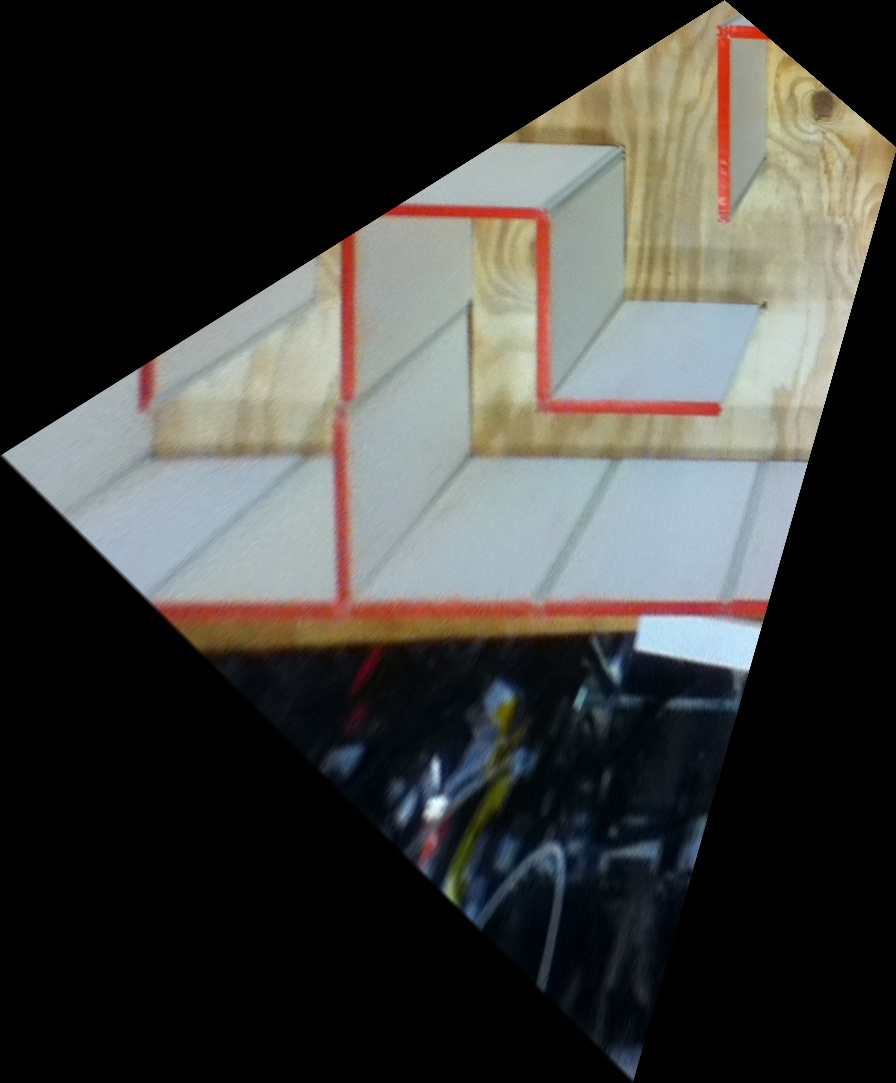
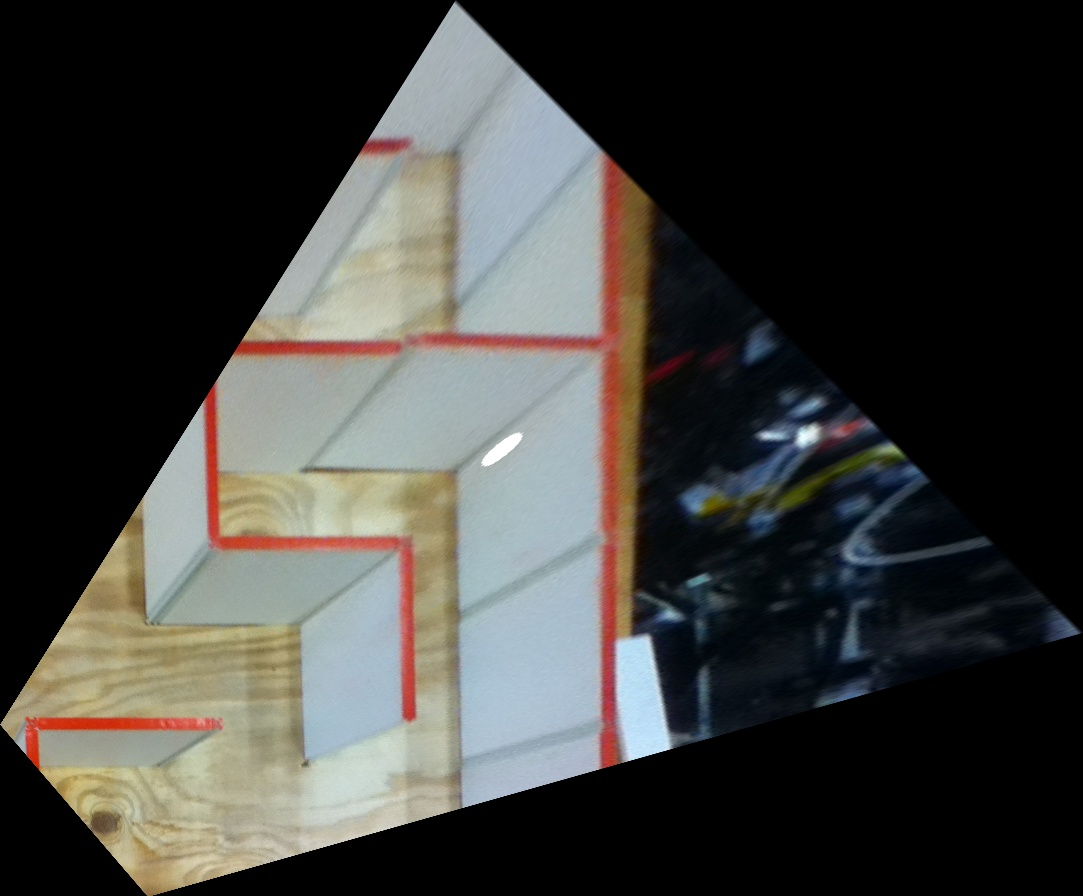
Got the homography working

diff --git a/src/transformer.py b/src/transformer.py
@@ -1,7 +1,6 @@
 import cv2
 import numpy as np
 import matplotlib.pyplot as plt
-from hough import *  # Might not need to import this directly here
 from get_square import *
 
 if __name__ == "__main__":
@@ -10,25 +9,21 @@ if __name__ == "__main__":
     cv_or_mpl = 'mpl'    # Use openCV or matplotlib to render the results?
 
     for image_number in range(89, 96):
+
         # Load the test image
         path = '../data/m7/IMG_02' + str(image_number) + '.JPG'
         # path = '../data/m7/IMG_0291.JPG'
         img = cv2.imread(path, cv2.CV_LOAD_IMAGE_COLOR)
 
-        corners = get_square(img) # This should be an image
-        print 'here'
-        exit(0)
-        print corners
+        # Do a clockwise sort on the points
+        def cw_sort(points):
+            center = (np.mean([z[0] for z in points]), np.mean([z[1] for z in points]))
+            cv2.circle(img, (int(center[0]), int(center[1])), 10, (255, 255, 255), -1)
+            xy_and_theta = [(p,np.arctan2(p[1]-center[1], p[0]-center[0])) for p in points]
+            return [z[0] for z in sorted(xy_and_theta, key = lambda x: x[1])]
 
-        corners = sorted(corners)
-        print corners
-
-        '''
-        Note: the corner order is top left, bottom left, top right, bottom right
-        '''
-        # Define some colors to use when we draw vertices
-        blue = (255, 0, 0)
-        green = (0, 255, 0)
+        # Clockwise sort the corners
+        corners = cw_sort(get_square(img))
 
         ortho_side = 2500    # Side length of square rectified image 
         ortho_dim = tuple([ortho_side]*2)  # Get explicit dimensions as tuple
@@ -36,13 +31,14 @@ if __name__ == "__main__":
 
         # Construct the pixel locations of the square in the middle of the
         # transformed image
-        central_square = [(ortho_side/2 - sq_side/2, ortho_side/2 - sq_side/2), 
-                          (ortho_side/2 - sq_side/2, ortho_side/2 + sq_side/2),
-                          (ortho_side/2 + sq_side/2, ortho_side/2 - sq_side/2), 
-                          (ortho_side/2 + sq_side/2, ortho_side/2 + sq_side/2)]
+        central_square = [
+                          (ortho_side/2 - sq_side/2, ortho_side/2 - sq_side/2),
+                          (ortho_side/2 + sq_side/2, ortho_side/2 - sq_side/2),
+                          (ortho_side/2 + sq_side/2, ortho_side/2 + sq_side/2),
+                          (ortho_side/2 - sq_side/2, ortho_side/2 + sq_side/2)
+                         ]
 
-        # Numpy-ize the lists of corner locations to use them in the homography 
-        # function
+        # Numpy-ize the lists of corner locations to use them in the homography function
         src = np.array(corners, np.float32)
         dst = np.array(central_square, np.float32)
 
@@ -63,6 +59,11 @@ if __name__ == "__main__":
 
         # Draw everything
         if draw:
+
+            # Define some colors to use when we draw vertices
+            blue = (255, 0, 0)
+            green = (0, 255, 0)
+
             # Draw the original and orthographic projections
             draw_corners(img, corners, blue)
             draw_corners(ortho, central_square, green)
@@ -79,57 +80,3 @@ if __name__ == "__main__":
                 plt.show()
         
         cv2.imwrite('orthographic/' + str(image_number) + '.jpg', ortho)
-
-    '''
-    <<<<<<< HEAD
-    cv_or_mpl = 'cv'
-
-    # Load the test image
-    path = '../data/m7/IMG_0289.JPG'
-    img = cv2.imread(path, cv2.CV_LOAD_IMAGE_COLOR)
-
-    # Get the smallest square in the image
-    polys, group1, group2 = find_squares_in_image(img)
-
-    # The corners are ordered: top right, bottom right, top left, bottom left
-    corners = find_smallest_square(polys)
-
-    # Construct a square by assuming that the top right and bottom left corners
-    # will be the starting points
-    top_right = corners[0]
-    bottom_left = corners[3]
-    side_length = max([np.abs(top_right[i] - bottom_left[i]) for i in range(2)])
-
-    # Offset the starting corner by some amount in the x direction to avoid
-    # clipping
-    offset = 50
-    trr = tuple([top_right[0] + offset, top_right[1]])
-    rectified_corners = [trr, (trr[0], trr[1] + side_length), 
-                        (trr[0] - side_length, trr[1]),
-                        (trr[0] - side_length, trr[1] + side_length)]
-
-
-    # Define some colors to use in plotting
-    blue = (255, 0, 0)
-    green = (0, 255, 0)
-
-    # Draw
-    draw_corners(img, corners, blue)
-    draw_corners(img, rectified_corners, green)
-    if cv_or_mpl == 'cv':
-        cv2.imshow('img', img)
-        cv2.waitKey()
-    else:
-        plt.figure('img')
-        plt.imshow(img)
-
-    src = np.array(corners, np.float32)
-    dst = np.array(rectified_corners, np.float32)
-    transform = cv2.getPerspectiveTransform(src, dst)
-    ortho = cv2.warpPerspective(img, transform, (960, 720))
-    cv2.imshow('ortho', ortho)
-    cv2.imwrite('ortho.jpg', ortho)
-    cv2.waitKey()
-    =======
-    '''
-

diff --git a/src/extract_walls.py b/src/extract_walls.py
@@ -54,29 +54,37 @@ def extract_walls(img):
         red_mask = cv2.inRange(window, lower_red, upper_red)
         return sum(sum(red_mask)) > 500
 
-    # The tiles are numbered as follows:
-    # |  0  1  2  3 |
-    # |  4  5  6  7 |
-    # |  8  9 10 11 |
-    # | 12 13 14 15 |
-    # | 16 17 18 19 |
-    # | 20 21 22 23 |
-    walls = [[0,0,0,0] for i in range(maze_width*maze_height)]
+    # 2D array of the wall values
+    walls = [[[0,0,0,0] for i in range(maze_width)] for j in range(maze_height)]
 
     # Check all pairs of points along the horizonal
-    for i in range(len(rows)):
-        for j in range(len(rows[i])-1):
+    for i in range(len(rows)): # TODO: The indices can be changed
+        for j in range(len(rows[i])-1): # TODO: The indices can be changed
             if horizontal_wall_exists(img, rows[i][j], rows[i][j+1]):
-                # TODO: Add to walls
-                # walls[
+                # TODO: Delete this
+                '''
                 center = ((rows[i][j][0] + rows[i][j+1][0])/2, (rows[i][j][1] + rows[i][j+1][1])/2)
+                cv2.circle(img, center, 8, (0, 0, 255), -1)
+                '''
+                pass
+                # TODO: Add to walls
 
     # Check all pairs of points along the vertical
-    for i in range(len(rows[0])):
-        for j in range(len(rows)-1):
+    for i in range(len(rows[0])): # TODO: The indices can be changed
+        for j in range(len(rows)-1): # TODO: The indices can be changed
             if vertical_wall_exists(img, rows[j][i], rows[j+1][i]):
-                # TODO: Add to walls
+                # TODO: Delete this
+                '''
                 center = ((rows[j][i][0] + rows[j+1][i][0])/2, (rows[j][i][1] + rows[j+1][i][1])/2)
+                cv2.circle(img, center, 8, (0, 0, 255), -1)
+                '''
+                pass
+                # TODO: Add to walls
+    # TODO: Delete this
+    '''
+    cv2.imshow('Walls', img)
+    cv2.waitKey()
+    '''
 
     return walls
 
@@ -96,7 +104,8 @@ if __name__ == '__main__':
 
     # Draw the walls
     walls = extract_walls(img)
+    #center = ((rows[i][j][0] + rows[i][j+1][0])/2, (rows[i][j][1] + rows[i][j+1][1])/2)
     print walls
 
-    cv2.imshow('Walls', img)
+    cv2.imshow('Walls', draw_img)
     cv2.waitKey()

diff --git a/src/get_square.py b/src/get_square.py
@@ -2,6 +2,12 @@ import cv2
 import numpy as np
 from hough import *
 
+# Simple Euclidean distance
+def distance(p1, p2):
+    x1, y1 = p1
+    x2, y2 = p2
+    return np.sqrt((x1-x2)**2 + (y1-y2)**2)
+
 # The code for this function was taken from:
 # http://stackoverflow.com/questions/20677795/find-the-point-of-intersecting-lines
 def line_intersection(line1, line2):
@@ -24,9 +30,9 @@ def intersection_within_image(line1, line2, img_shape):
     num_cols = img_shape[1]
     point = line_intersection(line1, line2)
     # What about parallel lines???
-    if not (0 <= point[0] and point[0] <= num_cols):
+    if not (0 <= point[0] <= num_cols):
         return False
-    if not (0 <= point[1] and point[1] <= num_rows):
+    if not (0 <= point[1] <= num_rows):
         return False
     return True
 
@@ -89,10 +95,6 @@ def get_square(img):
                         polys.append((p1, p2, p3, p4))
 
     # Get the "smallest" polygon, since this is likely to be a square
-    def distance(p1, p2):
-        x1, y1 = p1
-        x2, y2 = p2
-        return np.sqrt((x1-x2)**2 + (y1-y2)**2)
     dists = [distance(p1, p2)**2 + distance(p3, p4)**2 for p1,p2,p3,p4 in polys]
     p1,p2,p3,p4 = polys[dists.index(min(dists))]
 

diff --git a/src/hough.py b/src/hough.py
@@ -72,11 +72,11 @@ def rho_theta_to_x1y1_x2y2(lines, img_shape):
 
         # Sanity check
         for a in [x1, x2]:
-            if not (0 <= a and a <= num_cols):
+            if not (0 <= a <= num_cols):
                 print 'ERROR - x value of segment out of range'
                 exit(0)
         for b in [y1, y2]:
-            if not (0 <= b and b <= num_rows):
+            if not (0 <= b <= num_rows):
                 print 'ERROR - y value of segment out of range'
                 exit(0)
 
@@ -158,7 +158,7 @@ def hough_lines(img):
 
 # Demo
 if __name__ == '__main__':
-    image_path = '../data/m7/IMG_0290.JPG'
+    image_path = '../data/m7/IMG_0296.JPG'
     color_img = cv2.imread(image_path, cv2.CV_LOAD_IMAGE_COLOR)
     lines = hough_lines(color_img)
     color_img = draw_rho_theta_lines(lines, color_img, (0,255,0))
